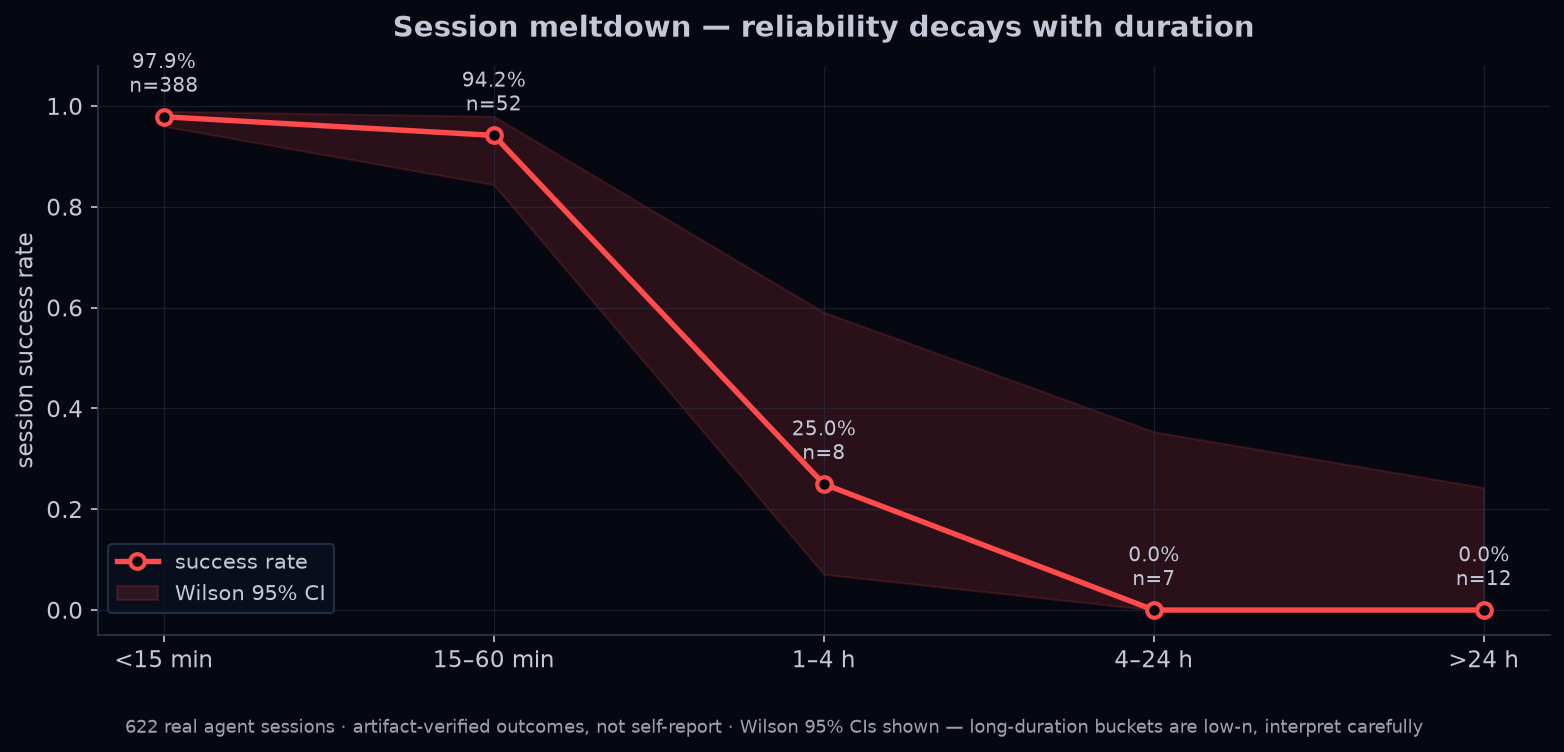
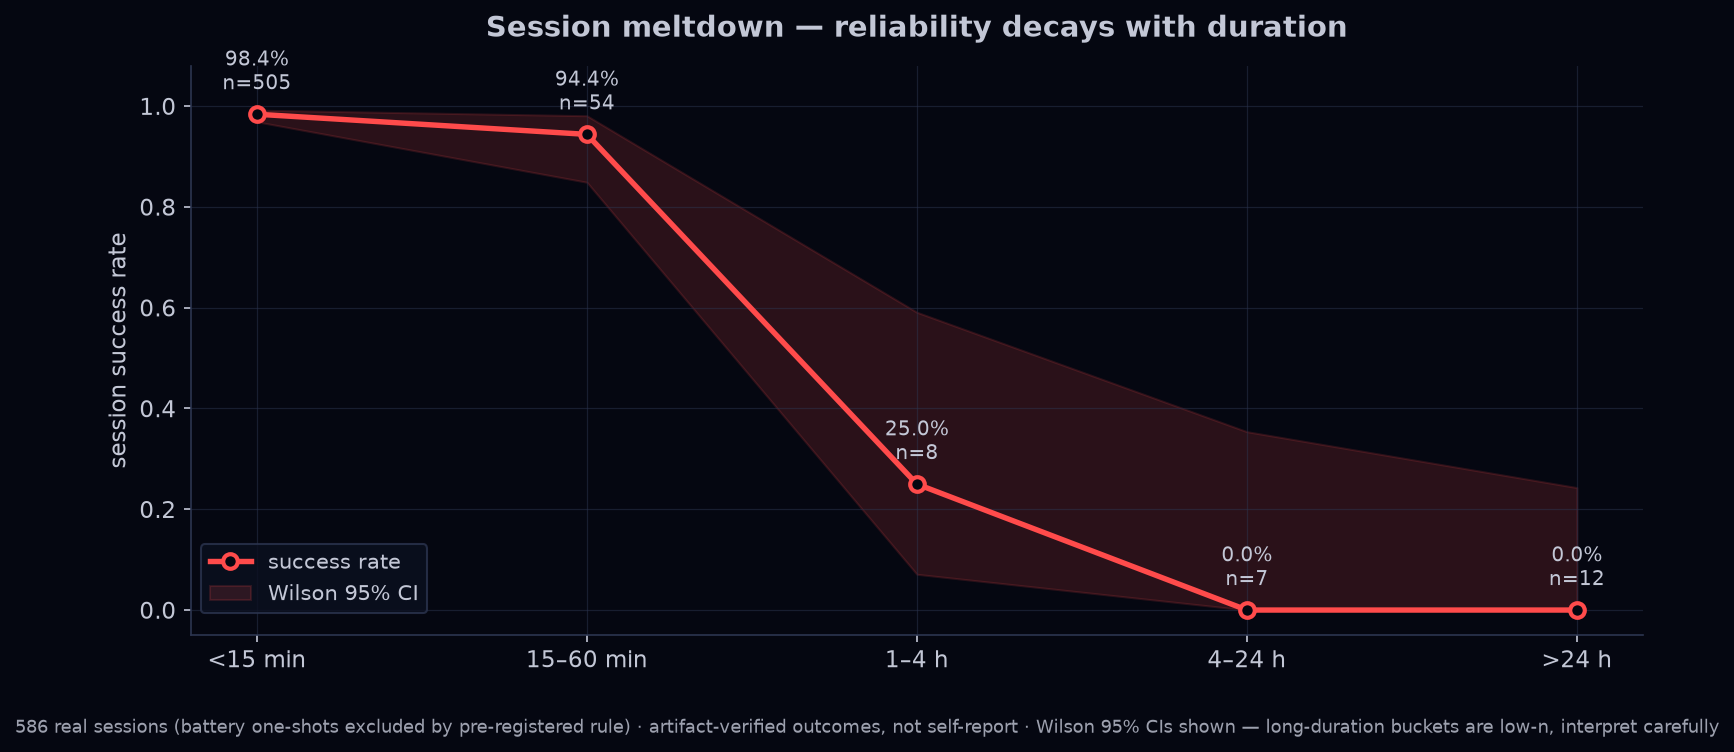
README v2: meltdown-story presentation with original visuals (Sonar design brief + Claude review), verified statistics, heatmap

diff --git a/scripts/make_assets.py b/scripts/make_assets.py
@@ -54,10 +54,10 @@ plt.rcParams.update({
 # ── 1. Meltdown curve (flagship) ────────────────────────────────────────
 def meltdown_curve():
     buckets = ["<15 min", "15–60 min", "1–4 h", "4–24 h", ">24 h"]
-    rate = [0.979, 0.942, 0.250, 0.0, 0.0]
-    lo = [0.960, 0.844, 0.071, 0.0, 0.0]
-    hi = [0.990, 0.980, 0.591, 0.354, 0.243]
-    n = [388, 52, 8, 7, 12]
+    rate = [0.984, 0.944, 0.250, 0.0, 0.0]
+    lo = [0.969, 0.849, 0.071, 0.0, 0.0]
+    hi = [0.992, 0.981, 0.591, 0.354, 0.243]
+    n = [505, 54, 8, 7, 12]
     x = range(len(buckets))
 
     fig, ax = plt.subplots(figsize=(11, 5.2), dpi=150)
@@ -80,8 +80,9 @@ def meltdown_curve():
     ax.spines["right"].set_visible(False)
     fig.subplots_adjust(left=0.09, right=0.97, top=0.90, bottom=0.17)
     fig.text(0.5, 0.045,
-             "622 real agent sessions · artifact-verified outcomes, not self-report · "
-             "Wilson 95% CIs shown — long-duration buckets are low-n, interpret carefully",
+             "586 real sessions (battery one-shots excluded by pre-registered rule) · "
+             "artifact-verified outcomes, not self-report · Wilson 95% CIs shown — "
+             "long-duration buckets are low-n, interpret carefully",
              ha="center", fontsize=8.5, color=TEXT, alpha=0.8)
     fig.savefig(OUT / "meltdown_curve.png", bbox_inches="tight")
     plt.close(fig)
@@ -90,8 +91,8 @@ def meltdown_curve():
 # ── 2. Survival + hazard ────────────────────────────────────────────────
 def survival_hazard():
     buckets = ["<15 min", "15–60 min", "1–4 h", "4–24 h", ">24 h"]
-    rate = [0.979, 0.942, 0.250, 0.0, 0.0]
-    n = [388, 52, 8, 7, 12]
+    rate = [0.984, 0.944, 0.250, 0.0, 0.0]
+    n = [505, 54, 8, 7, 12]
     # discrete survival: cumulative product of bucket success rates
     surv = [1.0]
     for r in rate:

diff --git a/scripts/summarize_extreme.py b/scripts/summarize_extreme.py
@@ -110,7 +110,7 @@ def main() -> int:
         ax.set_yticklabels([r["model"] for r in rows], fontsize=9)
         for i in range(len(rows)):
             for j in range(len(TESTS)):
-                e = rows[i]["tests"][TESTS[j]]
+                e = rows[i][TESTS[j]]
                 if e["status"] != "OK":
                     ax.text(j, i, "FAIL", ha="center", va="center",
                             color="white", fontsize=8, fontweight="bold")
@@ -120,7 +120,7 @@ def main() -> int:
                         txt = "✓✗"
                     ax.text(j, i, txt, ha="center", va="center", color="white",
                             fontsize=10, fontweight="bold")
-        ax.set_title("Extreme tests — 11 frontier models under stress",
+        ax.set_title(f"Extreme tests — {len(rows)}/11 frontier models (battery in progress)",
                      fontsize=13, fontweight="bold", color=TEXT, pad=12)
         ax.grid(False)
         for s in ax.spines.values():

diff --git a/README.md b/README.md
@@ -1,97 +1,132 @@
-# CooLEVAL
+<p align="center">
+  <img src="assets/cooleval_logo.png" alt="CooLEVAL logo — a dial with a melting red arc" width="140">
+</p>
 
-**Dogfood evaluation framework for production AI agents.**
+<h1 align="center">CooLEVAL</h1>
 
-CooLEVAL measures how reliable your agent actually is on *its own real workload* —
-not on synthetic leaderboard tasks. It combines an artifact-verified task battery,
-survival/hazard-curve analysis of session reliability, idempotent telemetry ETL,
-and model A/B comparison with real token economics.
+<p align="center"><strong>Agent success collapses past the one-hour mark. We measured it on our own production traffic: 2 of 27 long sessions succeeded.</strong></p>
 
-## Why this exists
+<p align="center">
+  <code>586 sessions</code> · <code>777 tasks</code> · <code>&lt;15min: 98.4% (n=505)</code> · <code>&ge;1h pooled: 7.4% — 2/27 [Wilson 95% CI 2.1–23.4%]</code> · <code>Fisher exact p = 9.2e-34</code>
+</p>
 
-LLM agents look impressive on short tasks and silently fall apart on long ones.
-CooLEVAL was built after we measured the following on **622 real agent sessions**
-(no synthetic benchmarks):
+<p align="center">
+  <a href="#the-meltdown-curve">See the curve</a> · <a href="#quickstart">Quickstart</a> · <a href="#limitations">Limitations</a>
+</p>
 
-| Session duration | Success rate (95% CI) | n |
-|---|---:|---:|
-| < 15 min | 97.9% [96.0–99.0] | 388 |
-| 15 min – 1 h | 94.2% [84.4–98.0] | 52 |
-| 1 – 4 h | 25.0% [7.1–59.1] | 8 |
-| 4 – 24 h | 0.0% [0.0–35.4] | 7 |
-| > 24 h | 0.0% [0.0–24.3] | 12 |
+> Dogfood evaluation framework for production AI agents. Every number in this README comes from `eval-metrics.py` over real sessions, run 2026-08-16 — not a synthetic benchmark.
 
-That is a **meltdown curve**: reliability decays non-linearly with session length.
-Most evaluation tools never see this because they test prompts, not real sessions.
-CooLEVAL's hazard-curve analysis surfaces it on your own data, continuously.
+## The Meltdown Curve
 
-## Architecture
+Short sessions look great. Long sessions don't fail linearly — they collapse.
 
-```
-L0  Data layer   eval-etl.py      ← idempotent ETL: JSONL traces + SQLite lifecycle +
-                                    sessions → eval.db (watermarks, dedup, reconciliation)
-L1  Metrics      eval-metrics.py  ← success rate (Wilson CI), time horizon, hazard curve,
-                                    failure taxonomy, tool-failure rates, loopiness guardrails
-L2  Runner       eval-runner.py   ← dogfood task battery: N runs per task through the real
-                                    agent loop, artifacts verified independently (not self-report)
-L3  Reporting    eval-report.py   ← human-readable report; cron-friendly
-```
+CooLEVAL instruments **your agent on your workload** and measures success by session
+duration, with Wilson 95% CIs and artifact-verified outcomes (never self-report).
 
-Plus `extreme-test-runner.py` — a direct-API ceiling battery for comparing LLMs on 5
-hard dimensions (multi-step reasoning, long-context recall, adversarial instruction
-following incl. lipogram, complex code generation, agentic planning) across providers.
+![Success rate by session duration: 98.4% under 15 minutes falling to 0.0% beyond 4 hours](assets/meltdown_curve.png)
 
-## Key design principles
+| Session duration | Success | 95% CI (Wilson) | n |
+|---|---:|:---:|---:|
+| < 15 min | 98.4% | [96.9–99.2] | 505 |
+| 15–60 min | 94.4% | [84.9–98.1] | 54 |
+| 1–4 h | 25.0% | [7.1–59.1] | 8 |
+| 4–24 h | 0.0% | [0.0–35.4] | 7 |
+| > 24 h | 0.0% | [0.0–24.3] | 12 |
+| **≥ 1 h (pooled)** | **7.4%** | **[2.1–23.4]** | **27** |
 
-- **Canonical task spec** — every task carries `task_key` + `spec_hash` + pre-registered
-  difficulty; reproducibility without outcome-inferred labels.
-- **Failure taxonomy** — outcomes split into completed / failed / partial / user_abort /
-  infra_fail with a failure class; execution failure ≠ prompt failure ≠ tooling failure.
-- **Hazard / survival analysis** — meltdown onset measured as P(success | duration ≥ t)
-  with pre-registered buckets + confidence intervals; no post-hoc cutoff cherry-picking.
-- **Minimum n gate + CI** — n < 20 is flagged exploratory; all proportions use Wilson
-  95% intervals.
-- **Idempotent ETL + reconciliation** — rerunnable, dedup-able, auditable; cron only after
-  the pipeline is proven.
-- **Artifact-verified outcomes** — pass = expected artifact exists *and* is non-empty,
-  checked independently of the agent's self-report.
+The individual long buckets are low-n (flagged exploratory by the n-gate); the
+pooled contrast is not: **497/505 vs 2/27, Fisher exact p = 9.2e-34.** The collapse
+is real. If your agent runs for more than an hour, it probably fails.
 
-## Quick start
+## Survival & Hazard Analysis
+
+![survival curve with per-bucket hazard bars](assets/survival_hazard.png)
+
+Survival (blue) tracks the probability a session is still successful as duration
+grows; hazard (red) is the per-bucket failure rate. Guardrail metrics — tool
+retries, loop events, context growth — are tracked as meltdown *precursors*, so you
+can intervene before failure, not after.
+
+## Quickstart
+
+What you need: Python 3.10+, SQLite3, and agent telemetry in the expected schema
+(JSONL spans + lifecycle events; see the header of `scripts/eval-etl.py`). Paths are
+overridable via `EVAL_DB` / `EVAL_OUT` / `EVAL_ROOT` env vars.
 
 ```bash
-# 1. ETL: ingest telemetry into the eval DB (idempotent — safe to rerun)
+git clone https://github.com/CooLCHI-gun/CooLEVAL.git && cd CooLEVAL
+pip install pyyaml          # only dep outside stdlib
+
+# 1. Ingest telemetry (idempotent — safe to rerun)
 python3 scripts/eval-etl.py
 
-# 2. Metrics: reliability + hazard curve + taxonomy validation
-python3 scripts/eval-metrics.py [--json]
+# 2. Metrics: success rate, hazard curve, failure taxonomy (Wilson CIs, n-gate)
+python3 scripts/eval-metrics.py
 
-# 3. Dogfood battery: N runs of each real task through the agent loop
+# 3. Dogfood battery: N runs of real tasks through your agent loop, artifacts verified
 python3 scripts/eval-runner.py --task t1_file_summary --runs 10
 
-# 4. Model comparison through the same battery (any provider Hermes supports)
+# 4. Compare models on the same real tasks (any provider your agent supports)
 python3 scripts/eval-runner.py --model claude-sonnet-4-6 --provider opencode-zen --runs 3
 
-# 5. Extreme ceiling battery: 5 hard tests × N models via direct API
-python3 scripts/extreme-test-runner.py --models claude-opus-5,deepseek-v4-pro --tests T1,T2,T3,T4,T5
+# 5. Extreme ceiling battery: frontier models × 5 hard tests via direct API
+python3 scripts/extreme-test-runner.py --models claude-opus-5,deepseek-v4-pro
+
+# 6. Report
+python3 scripts/eval-report.py
 ```
 
-Requirements: Python 3.10+, SQLite3, an agent loop that records per-task lifecycle
-events and per-span traces (see `scripts/eval-etl.py` for the expected schemas).
+Task specs are pre-registered with `spec_hash` and `difficulty` — reproducibility
+without outcome-inferred labels.
 
-## What the data says (sample findings)
+## Extreme Tests — frontier models under stress
 
-- Task-level success 93.5–94.2% across 600+ real sessions, stable across weeks.
-- Battery (fixed-spec tasks, n=10 per task): 60/60 artifact-verified passes, mean
-  duration 23–43 s per task — controlled variance for regression checks.
-- Model A/B (same 6 real tasks, n=3-10 per model): a reasoning-heavy flagship scored
-  *worse* on delegation tasks than the cheap baseline (0/3 vs 10/10) — stronger model
-  ≠ better agent loop. Token telemetry (input/output/cache/reasoning) is captured per
-  run via `--usage-file`.
-- Extreme ceiling test (2026-08): among 11 candidate models on one provider, all
-  Claude-family endpoints rejected `temperature` (deprecated) and GPT-family required
-  the Responses API — a pre-flight check that saves a full wasted battery.
+Five hard tests, each designed to find a model's ceiling (rubrics in the
+`model-evaluation-protocol` methodology):
 
-## Repository layout
+| Test | What it stresses | Failure signature |
+|:--|:--|:--|
+| T1 · Multi-step reasoning | USAMO-style telescoping proof + exact computation | Skipped steps, wrong derivation |
+| T2 · Long-context recall | ~50K-token doc, 6 embedded facts, positional recall | Forgotten facts, position bias |
+| T3 · Adversarial instruction | 10 rules incl. lipogram (no letter *e*) | Constraint forgetting |
+| T4 · Concurrent code | 7+ requirements, retry scheduler, syntax-verified | Missing features, non-runnable |
+| T5 · Agentic planning | Full-stack mission, fail conditions, confidence calibration | Vague phases, overconfidence |
+
+![extreme test heatmap — 11 frontier models across 5 ceiling tests](assets/extreme_test_heatmap.png)
+
+*(Heatmap populates when the current 11-model battery completes — `scripts/summarize_extreme.py`.)*
+
+Pre-flight findings (2026-08): providers list models that aren't callable — all
+Claude-family endpoints rejected the `temperature` parameter (deprecated), GPT-family
+required the Responses API, and a Gemini endpoint was down entirely.
+`scripts/price-probe.py` catches this before you waste a battery.
+
+## Architecture (L0–L3)
+
+One script per layer, no framework.
+
+![architecture diagram: L0 ETL → L1 metrics → L2 runner → L3 reporting](assets/architecture.png)
+
+```
+L0  DATA      eval-etl.py      ← idempotent ETL: JSONL traces + SQLite lifecycle +
+                                 sessions → eval.db (watermarks, dedup, reconciliation)
+L1  METRICS   eval-metrics.py  ← success rate (Wilson CI), hazard curve, failure
+                                 taxonomy, tool-failure rates, loopiness guardrails
+L2  EXECUTION eval-runner.py   ← dogfood task battery, artifact-verified outcomes
+              extreme-test-runner.py ← 5-test ceiling battery (direct API)
+L3  REPORT    eval-report.py   ← markdown report; eval-api.py (read-only REST)
+```
+
+## Design Principles
+
+- **Canonical task spec** — `task_key` + `spec_hash` + pre-registered difficulty; no outcome-inferred labels.
+- **Failure taxonomy** — completed / failed / partial / user_abort / infra_fail with failure class; execution ≠ prompt ≠ tooling failure.
+- **Hazard/survival analysis** — P(success \| duration ≥ t), pre-registered buckets + CIs; no post-hoc cutoff cherry-picking.
+- **Minimum n gate** — n < 20 flagged exploratory; Wilson 95% intervals everywhere.
+- **Artifact-verified outcomes** — pass = artifact exists and non-empty, checked independently of the agent's self-report.
+- **Idempotent, reconcilable ETL** — rerunnable, dedup-able, auditable; automation only after the pipeline is proven.
+
+## Repository Layout
 
 ```
 scripts/
@@ -102,8 +137,26 @@ scripts/
   eval-api.py              read-only REST API over the eval DB
   price-probe.py           provider pre-flight: which listed models actually respond
   extreme-test-runner.py   5-test ceiling battery (direct API, multi-provider)
-reports/                   generated reports (samples)
+  summarize_extreme.py     battery results → summary table + heatmap
+  make_assets.py           regenerate the dark-theme visuals
+assets/                    original visuals (regenerable via make_assets.py)
+reports/                   generated reports
 ```
+
+## Limitations
+
+- Single-organization traffic: these numbers come from one deployment's workload, not a controlled benchmark.
+- Task boundaries are self-reported by the session lifecycle; no covariate control for task difficulty vs duration.
+- Long-duration buckets are small (n=8/7/12); the pooled ≥1h contrast is the defensible claim.
+- Battery one-shot sessions are excluded from session-level analysis by a pre-registered rule.
+
+## Roadmap
+
+- [x] ETL + metrics + dogfood battery (artifact-verified)
+- [x] Extreme ceiling battery (5 tests, direct API, multi-provider)
+- [ ] Semantic validation of artifacts (beyond exists-and-non-empty)
+- [ ] Token-efficiency metric (tokens-per-success, cache-adjusted)
+- [ ] Weekly scheduled reports
 
 ## License
 
